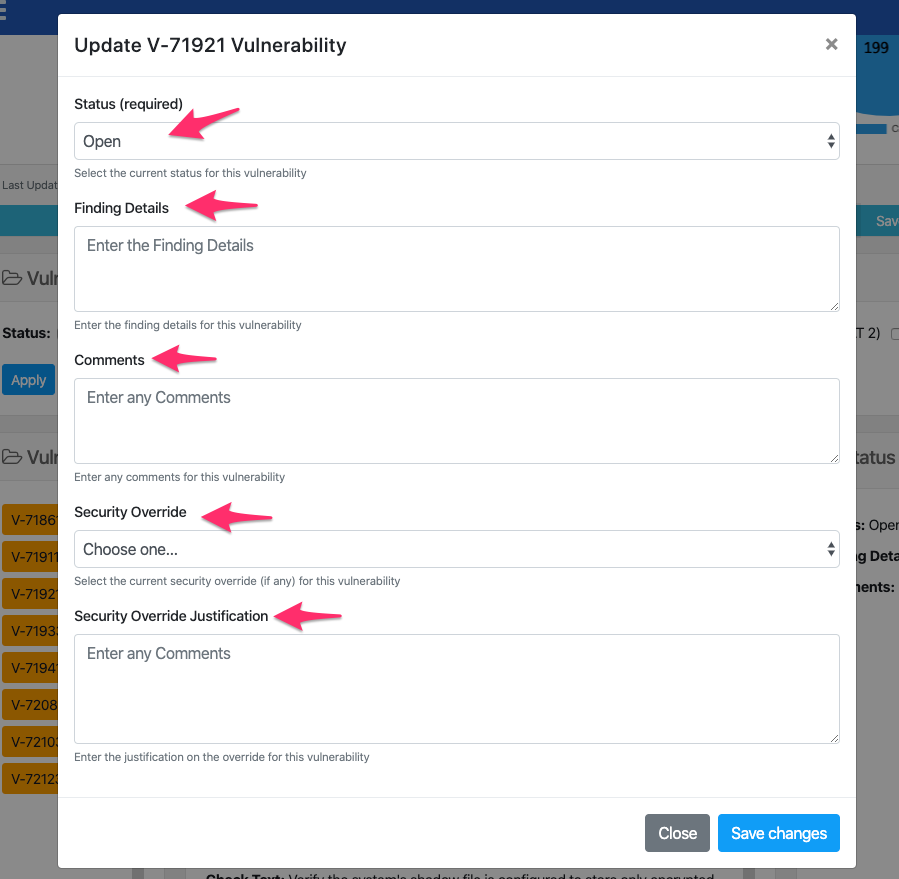
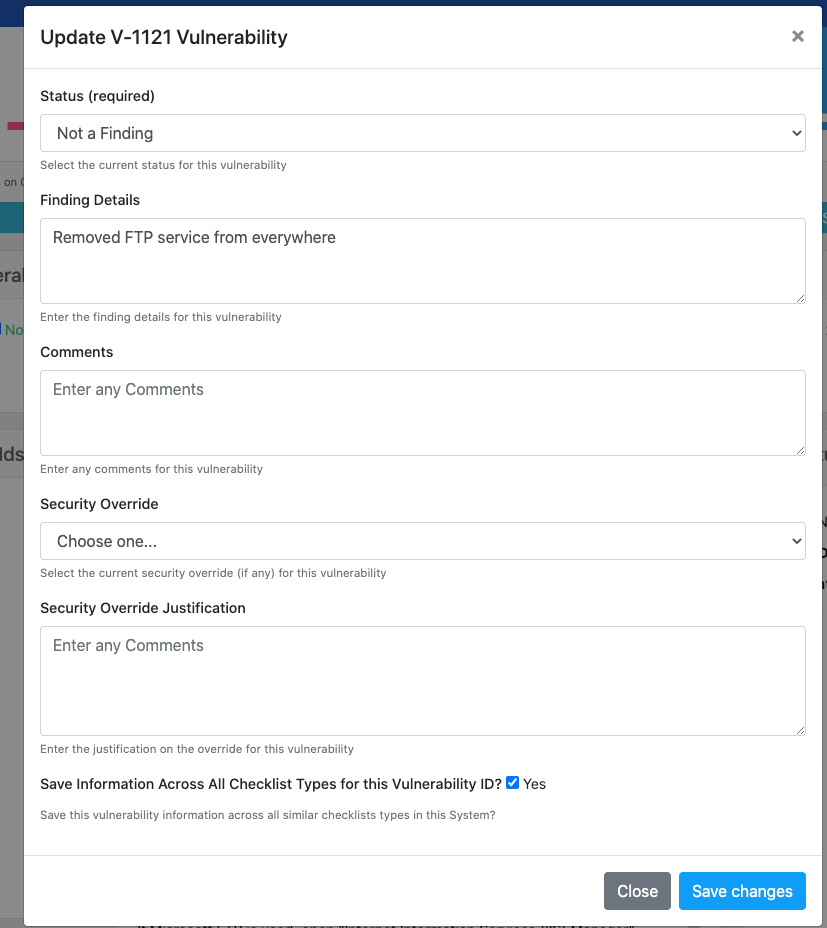
v1.1 Updated Help Documentation and scripts

Changed region(s): [[0.0, 0.0, 1.0, 1.0]]

diff --git a/docs/whatsnew.md b/docs/whatsnew.md
@@ -1,5 +1,5 @@
 ---
-title: What's New in v1.0
+title: What's New in v1.1
 nav_order: 2
 ---
 
@@ -7,15 +7,25 @@ nav_order: 2
 
 Please refer to the <a href="https://github.com/Cingulara?tab=projects" target="_blank">OpenRMF Projects listing on GitHub</a> for more information on feature updates and timeline.
 
+## Version 1.1
+Version 1.1 was a security fix primarily with some updated functionality as outlined below:
+* Rootless containers for APIs, messages, NGINX, and MongoDB databases
+* Updated jQuery, File Upload, Bootstrap and other JS components
+* Security Fixes from an active scan of the web application 
+* Upload an existing checklist for a given checklist type and host = update the info (it was just duplicating the information)
+* Allow Bulk Edits on Vulnerabilities across similar checklist types within a System grouping
+* Container "restart: always" on the Docker Compose file
+* All CSS, HTML, JS are local not reaching out over the public Internet
+
 ## Version 1.0
 
-The latest working version is version 1.0 of OpenRMF Core. The recent updates on that are below:
+Version 1.0 of OpenRMF Core has these updates below:
 * Fixing a bug on the Web UI updating Vulnerabilities via the web form in a checklist
 * Updating the version descriptions to 1.0 throughout the codebase
 
 ## Version 0.15
 
-The latest working version is version 0.15 and is the last update before going to version 1.0 of OpenRMF Core. The recent updates on that are below:
+Version 0.15 is the last update before going to version 1.0 of OpenRMF Core. The recent updates on that are below:
 * Migrating the Web UI and all APIs behind NGINX for a single port 8080
 * Automatically updating the checklist score on the page when editing a vulnerability status
 * Various small bug fixes

diff --git a/docs/checklists.md b/docs/checklists.md
@@ -28,3 +28,8 @@ With the 0.12 version OpenRMF, if you are an Editor or Administrator (role) you 
 You also can edit each Vulnerability record with those roles. The following fields in the image below can be edited. Once saved, the data in the checklist is updated and the score is recalculated for the checklist and subsequently the system. 
 
 ![OpenRMF Edit Checklist Vulnerability Details](/assets/checklist-edit-vulnerability.png)
+
+## Bulk Edits on Similar Checklists
+As of version 1.1 you also can do a Bulk Edit on checklists within your system. This allows an edit on one checklist to be applied across all other checklists with the same Checklist Type within your system. i.e. an edit on Windows 2016 Member Server for a vulnerability to mark it as "Not a Finding" based on a group policy can be edited and then applied across all the Win2k16 checklists in your system with a click of a checkbox.
+
+This is a *big improvement* as it allows easy managing of multiple servers and checklists on hosts that are the same within your system. You must have a checklist per type per host for the RMF process artifacts. This allows much easier managing of similar hosts and workstations / servers in your system grouping.

diff --git a/docs/metrics.md b/docs/metrics.md
@@ -15,17 +15,17 @@ you can set it and forget it.
 ## .NET Core Default Metrics
 Once you have Prometheus setup, you can use the https://grafana.com/grafana/dashboards/10427 to display .NET Core metrics like the below chart. 
 
-![Image](/assets/metrics-aspnet-core-default.png?raw=true)
+![Default Metrics](/assets/metrics-aspnet-core-default.png)
 
 ## .NET Core API Controller Metrics
 Once you have Prometheus setup, you can use the https://grafana.com/grafana/dashboards/10915 to display .NET Core metrics like the below chart. 
 
-![Image](/assets/metrics-api-controller-summary.png?raw=true)
+![API Metrics](/assets/metrics-api-controller-summary.png)
 
 ## NATS Server Metrics
 Once you have Prometheus setup and you deploy the container for https://github.com/nats-io/prometheus-nats-exporter, you can use the https://grafana.com/grafana/dashboards/2279 to display NATS Server Core metrics like the below chart. 
 
-![Image](/assets/metrics-nats-server.png?raw=true)
+![NATS Server Metrics](/assets/metrics-nats-server.png)
 
 ## NATS Client Connection Metrics
 I made a NATS metrics dashboard at https://github.com/Cingulara/nats-client-metrics that goes down to the client level. The default 

diff --git a/docs/index.md b/docs/index.md
@@ -35,6 +35,7 @@ Some of the high level features are below:
 * Single source of truth for your system checklists
 * Single source of truth for your latest Nessus patch scans
 * Live online editing of your checklist through your web browser with auditing of the changes
+* Bulk editing of Vulnerabilities across similar Checklist Types within a System
 * One-click creation of your POA&M for your entire system (all servers, devices, SCAP scans, manual checklists)
 * One-click creation of your Risk Assessment Report (RAR) for your entire system (all servers, devices, SCAP scans, manual checklists)
 * One-click creation of your Test Plan Summary for your entire system (all servers, devices, SCAP scans, manual checklists)

diff --git a/README.md b/README.md
@@ -43,6 +43,7 @@ If you want to run on AWS EKS, you can see the Helm Chart and Kubernetes specifi
 - [x] Exporting of various charts for download to PNG
 - [x] Filter Vulnerabilities on the Checklist page by status 
 - [x] *Live Editing of Checklist data through the web browser*
+- [x] Bulk Edits of Vulnerabilities across similar checklist types within your System grouping
 - [x] Filter vulnerabilities for your Compliance listing based on major controls
 - [x] Exporting your list of checklists and their score by status and category to MS Excel 
 - [x] Metrics exported to Prometheus for API endpoints and NATS messaging, quickly display in Grafana
